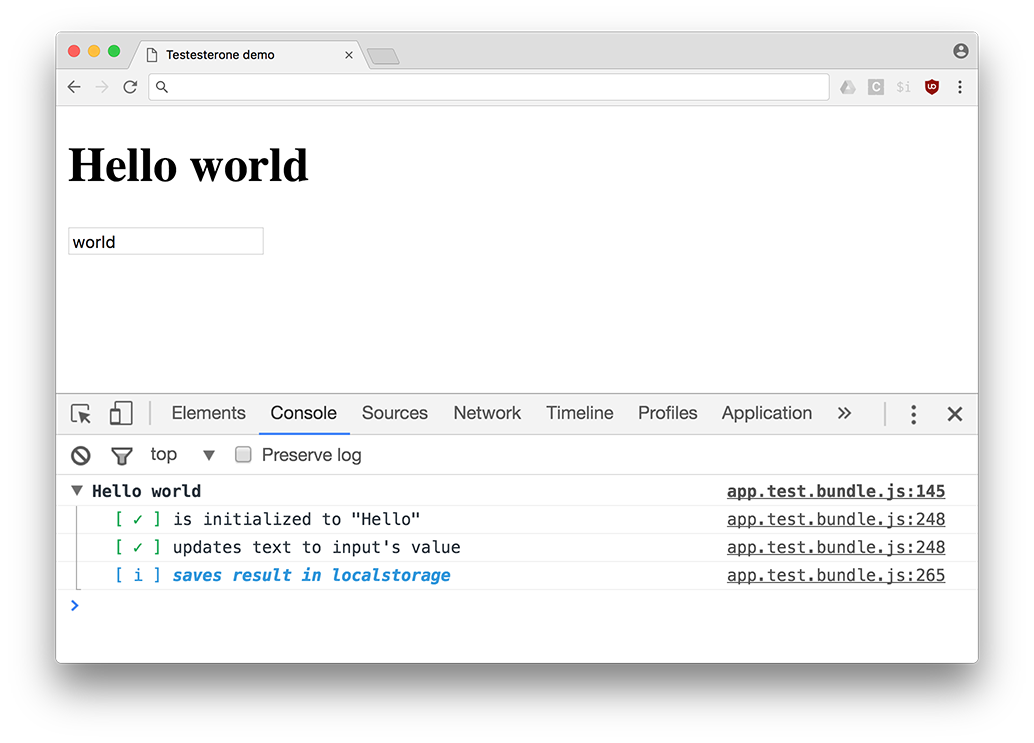
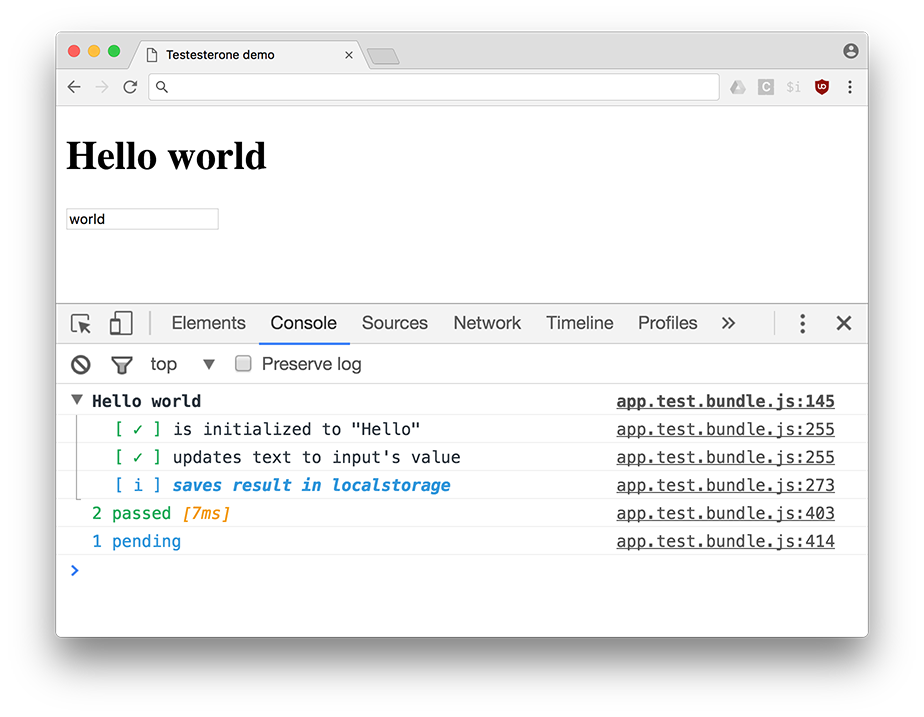
docs: update screenshot, counter: only show error/pending when not zero

diff --git a/index.js b/index.js
@@ -252,17 +252,17 @@ function unwindQueue(queue) {
 		const time = performance.now() - globalStartTime;
 		const timeStr = time > 9999 ? (time / 1000).toFixed(2) + 's' : time.toFixed() + 'ms';
 		console.log(
-			'%c[ ✓ ] %d passed%c [%s]',
+			'%c%d passed%c [%s]',
 			'color: #27ae60',
 			passCount,
 			'color: #f39c12; font-style: italic',
 			timeStr
 		);
 		if (failCount > 0) {
-			console.log('%c[ ✗ ] %d failed', 'color: #e71600', failCount);
+			console.log('%c%d failed', 'color: #e71600', failCount);
 		}
 		if (pendingCount > 0) {
-			console.log('%c[ i ] %d pending', 'color: #3498db', pendingCount);
+			console.log('%c%d pending', 'color: #3498db', pendingCount);
 		}
 		return;
 	}

diff --git a/dist/testesterone.js b/dist/testesterone.js
@@ -401,14 +401,18 @@ function unwindQueue(queue) {
 		var time = performance.now() - globalStartTime;
 		var timeStr = time > 9999 ? (time / 1000).toFixed(2) + 's' : time.toFixed() + 'ms';
 		console.log(
-			'%c[ ✓ ] %d passed%c [%s]',
+			'%c%d passed%c [%s]',
 			'color: #27ae60',
 			passCount,
 			'color: #f39c12; font-style: italic',
 			timeStr
 		);
-		console.log('%c[ ✗ ] %d failed', 'color: #e71600', failCount);
-		console.log('%c[ i ] %d pending', 'color: #3498db', pendingCount);
+		if (failCount > 0) {
+			console.log('%c%d failed', 'color: #e71600', failCount);
+		}
+		if (pendingCount > 0) {
+			console.log('%c%d pending', 'color: #3498db', pendingCount);
+		}
 		return;
 	}
 

diff --git a/test/demo1/index.bundle.js b/test/demo1/index.bundle.js
@@ -401,14 +401,18 @@ function unwindQueue(queue) {
 		var time = performance.now() - globalStartTime;
 		var timeStr = time > 9999 ? (time / 1000).toFixed(2) + 's' : time.toFixed() + 'ms';
 		console.log(
-			'%c[ ✓ ] %d passed%c [%s]',
+			'%c%d passed%c [%s]',
 			'color: #27ae60',
 			passCount,
 			'color: #f39c12; font-style: italic',
 			timeStr
 		);
-		console.log('%c[ ✗ ] %d failed', 'color: #e71600', failCount);
-		console.log('%c[ i ] %d pending', 'color: #3498db', pendingCount);
+		if (failCount > 0) {
+			console.log('%c%d failed', 'color: #e71600', failCount);
+		}
+		if (pendingCount > 0) {
+			console.log('%c%d pending', 'color: #3498db', pendingCount);
+		}
 		return;
 	}
 

diff --git a/test/demo2/app.test.bundle.js b/test/demo2/app.test.bundle.js
@@ -401,14 +401,18 @@ function unwindQueue(queue) {
 		var time = performance.now() - globalStartTime;
 		var timeStr = time > 9999 ? (time / 1000).toFixed(2) + 's' : time.toFixed() + 'ms';
 		console.log(
-			'%c[ ✓ ] %d passed%c [%s]',
+			'%c%d passed%c [%s]',
 			'color: #27ae60',
 			passCount,
 			'color: #f39c12; font-style: italic',
 			timeStr
 		);
-		console.log('%c[ ✗ ] %d failed', 'color: #e71600', failCount);
-		console.log('%c[ i ] %d pending', 'color: #3498db', pendingCount);
+		if (failCount > 0) {
+			console.log('%c%d failed', 'color: #e71600', failCount);
+		}
+		if (pendingCount > 0) {
+			console.log('%c%d pending', 'color: #3498db', pendingCount);
+		}
 		return;
 	}
 
